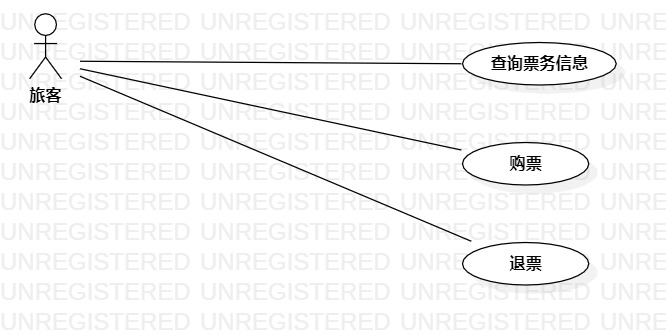
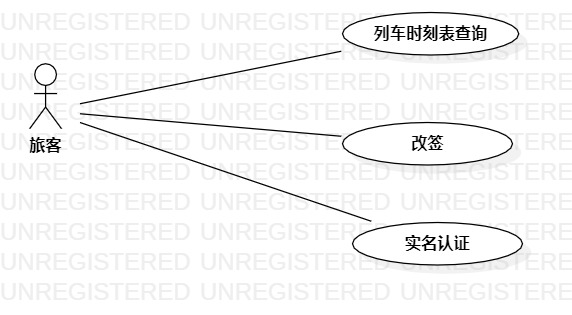
修改实验2

diff --git a/students/1714080902303/实验2.md b/students/1714080902303/实验2.md
@@ -11,16 +11,16 @@
 3、用markdown编写实验文档，写出用例规约
 
 ## 三、实验步骤
-> 1、确定选题（铁路购票退票系统） 
+> 1、确定选题（铁路票务系统） 
 
 > 2、选题功能：
-> + 票务信息查询
-> + 购票
-> + 退票
+> + 列车时刻表查询
+> + 改签
+> + 实名认证
 
 > 3、根据系统功能确认角色和事件及彼此之间的联系，用StarUML画出用例图并检查
 > + 一个角色：旅客
-> + 三个用例：票务信息查询、购票、退票
+> + 三个用例：列车时刻表查询、改签、实名认证
 
 > 4、建立联系绘制用例图（model2）
 
@@ -31,53 +31,54 @@
 ![用例图](./model2.jpg)  
 图2.用例建模
 
-## 表1：票务信息查询用例规约
+## 表1：列车时刻表查询用例规约
 
 用例编号  | UC01 | 备注  
 -|:-|-  
-用例名称  | 票务信息查询 |  
-前置条件  | 旅客进入购票系统 | *可选* |  
-后置条件  |    | *可选* |  
-基本流程  | 1、旅客点击票务信息查询链接； | *用例执行成功的步骤* |  
-~| 2、系统显示需要查询的站点输入页面； |  
-~| 3、旅客输入所要查询的日期和站点，点击查询按钮； |  
-~| 4、系统查询旅客输入日期和站点的票务信息； |  
-~| 5、系统显示票务信息页面。 |  
-扩展流程  | 4.1系统未查询到旅客所输入日期和站点的票务信息，提示旅客您所查询的日期和站点没有车次，建议您重新规划路线。 | *用例执行失败* |    
+用例名称  | 列车时刻表查询 |  
+前置条件  | 旅客进入票务系统 | *可选* |  
+后置条件  |  查询到相应车次时刻表  | *可选* |  
+基本流程  | 1、旅客点击列车时刻表查询链接； | *用例执行成功的步骤* |  
+~| 2、系统显示需要输入列车车次信息； |  
+~| 3、旅客输入所要查询的列车车次，点击查询按钮； |  
+~| 4、系统查询旅客输入车次时刻表； |  
+~| 5、系统显示列车时刻表。 |  
+扩展流程  | 4.1系统未查询到旅客所输入车次信息，提示旅客您所查询车次暂无信息。 | *用例执行失败* |    
 
 
-## 表2：购票用例规约
+## 表2：改签用例规约
 
 用例编号  | UC02 | 备注  
 -|:-|- 
-用例名称  | 购票 |  
-前置条件  | 旅客进入购票系统 | *可选*  
-后置条件  | 购票成功 | *可选*  
-基本流程  | 1、旅客查询票务信息； | *用例执行成功的步骤*  
-~| 2、旅客选择自己想要购买的车次点击购票按钮;  
-~| 3、系统查询是否有票;  
-~| 4、旅客选择想要购买的车票座次；  
-~| 5、系统查询旅客所选择的车票座次有无余票；  
-~| 6、系统跳转到支付页面；  
-~| 7、旅客完成支付；  
-~| 8、系统显示车票购买成功页面。  
-扩展流程  | 3.1 系统查询到当前已无余票，提示旅客“您所选择的车次已无余票" | *用例执行失败*  
-~| 5.1 旅客所选择的车票座次已无余票，提示旅客 "您所选择的座次已无余票"  
-~| 7.1 旅客支付失败，提示旅客"支付失败，请再十分钟内支付您的订单"    
+用例名称  | 改签 |  
+前置条件  | 旅客进入票务系统 | *可选*  
+后置条件  | 改签成功 | *可选*  
+基本流程  | 1、旅客选择自己想要改签的订单； | *用例执行成功的步骤*  
+~| 2、旅客点击改签按钮;  
+~| 3、系统显示选择想要改签日期;  
+~| 4、旅客选择想要改签的日期；  
+~| 5、系统显示可提供改签的当日车次信息；  
+~| 6、旅客选择想要改签的车次；  
+~| 7、系统询问旅客是否确认改签；  
+~| 8、旅客选择确认改签;  
+~| 9、系统跳转到支付页面，提示旅客支付手续费;  
+~| 10、旅客支付手续费;  
+~| 11、系统显示改签成功。    
+扩展流程  | 5.1 系统查询到当日已无车次可改签，提示旅客“您所选择的日期无可改签车次" | *用例执行失败*  
+~| 10.1 旅客支付失败，提示旅客"支付失败，请再十分钟内支付您的订单"    
 
 
-## 表3：退票用例规约
+## 表3：实名认证用例规约
 
 用例编号  | UC03 | 备注  
 -|:-|-  
-用例名称  | 退票 |  
-前置条件  | 旅客进入退票系统 | *可选*  
-后置条件  | 退票成功 | *可选*  
-基本流程  | 1、旅客点击退票按钮； |*用例执行成功的步骤*  
-~| 2、旅客选择自己要退票的订单；  
-~| 3、系统查询是否在规定的退票期间内；  
-~| 4、系统提示询问旅客是否取消订单；  
-~| 5、旅客点击确定按钮；  
-~| 6、系统显示退票成功页面。  
-扩展流程  | 3.1 系统查询到当前时间不在规定退票时间内，提示旅客“当前时间无法退票，退票失败” | *用例执行失败*  
+用例名称  | 实名认证 |  
+前置条件  | 旅客进入票务系统 | *可选*  
+后置条件  | 实名认证成功 | *可选*  
+基本流程  | 1、旅客实名认证按钮； |*用例执行成功的步骤*  
+~| 2、系统提示旅客输入需要购票的旅客身份信息；  
+~| 3、旅客输入身份信息；  
+~| 4、系统核对旅客输入的身份信息是否正确；  
+~| 5、系统显示实名认证成功页面。  
+扩展流程  | 4.1 系统核实到旅客输入的身份信息有误，提示旅客“您输入的身份信息有误，请重新输入” | *用例执行失败*  
 
